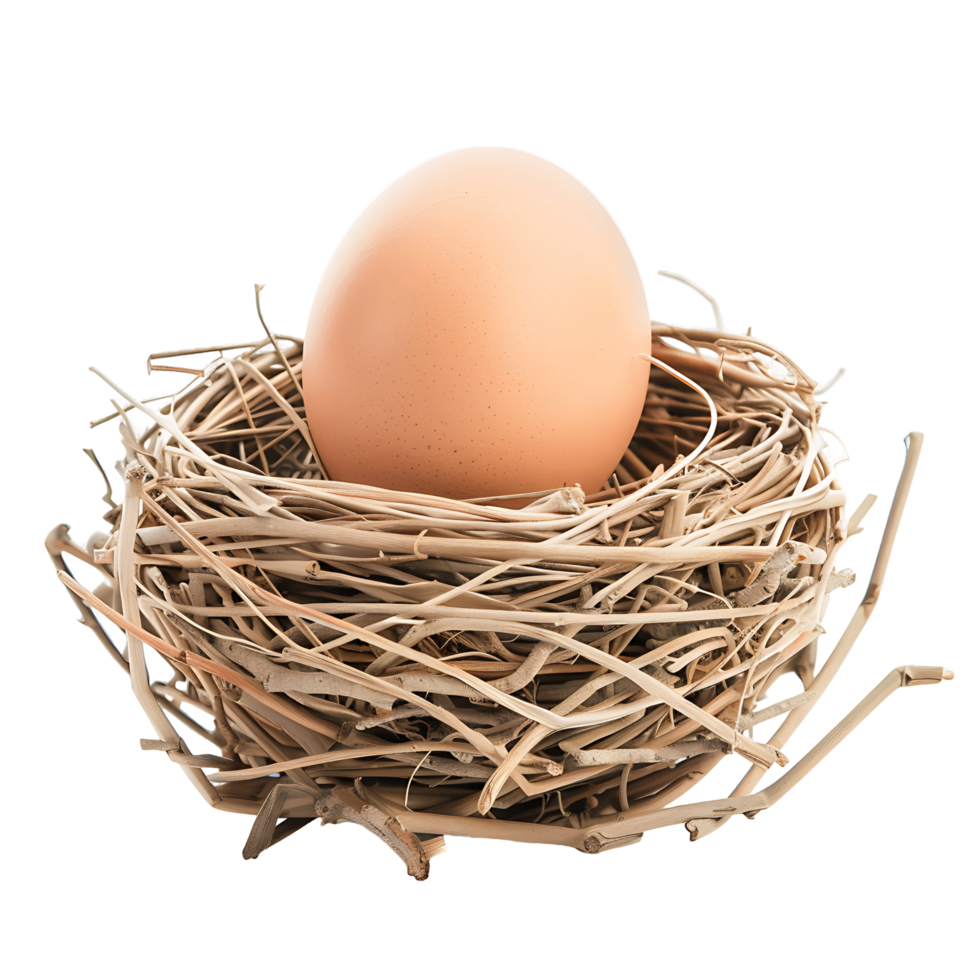
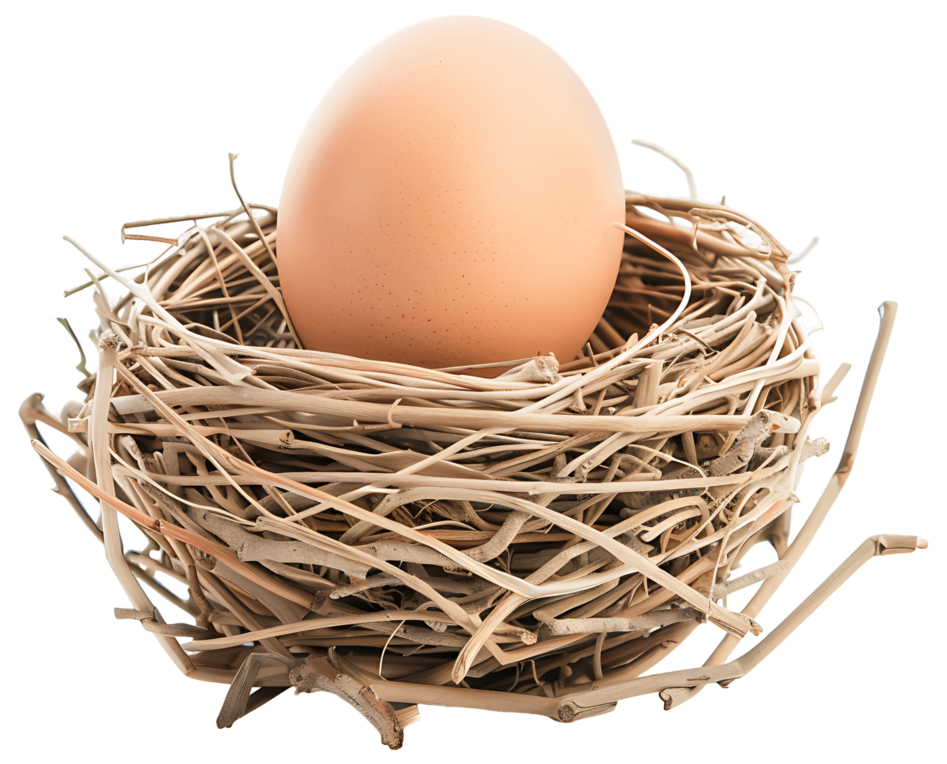
changed footer, added random birds easter egg

diff --git a/style.css b/style.css
@@ -132,7 +132,7 @@ body {
 	padding-top: calc(var(--content-padding-top) + var(--topbar-height));
 	padding-left: var(--content-padding);
 	padding-right: var(--content-padding);
-	padding-bottom: 150px;
+	/*padding-bottom: 150px;*/
 	background-color: rgba(245, 245, 245, 0.85);
 }
 .column-wrapper {
@@ -162,17 +162,31 @@ img.slideshow.fade-out {
 	max-width: 100%;
 }
 footer {
-	position: absolute;
+	background-color: rgba(249, 249, 249, 0.3);
+	position: relative;
+	display: flex;
+	flex-wrap: wrap;
+	align-items: center;
+	justify-content: center;
 	z-index: 1;
-	bottom: 0;
 	text-align: center;
 	left: 0;
 	width: 100vw;
-	margin: 30px 0 15px 0;
-	padding: 0 var(--content-padding) 0 var(--content-padding);
+	margin: 15px 0 0 0;
+	padding: 15px var(--content-padding) 15px var(--content-padding);
+	column-gap: 25px;
+	row-gap: 10px;
+
+}
+footer #left {
+	/*text-align: left;*/
+}
+footer #right {
+
 }
 footer .credit {
 	font-size: 15px !important;
+	color: #333333;
 }
 
 /* Buttons */
@@ -271,8 +285,26 @@ a img {
 .uncolored-link {
 	color: inherit !important;
 }
+@keyframes wiggle {
+   0% { transform: rotate(0deg); }
+   25% { transform: rotate(5deg); }
+   50% { transform: rotate(-5deg); }
+  100% { transform: rotate(0deg); }
+}
+.icon {
+	display: inline-block;
+	vertical-align: center;
+	padding: 0 10px 0 10px;
+	height: 45px;
+}
+.icon.wiggle:hover {
+	animation: wiggle 0.6s;
+}
 .box-shadow {
 	box-shadow: 0px 5px 7px 0px rgba(0,0,0,0.3);
+}
+.box-shadow-reverse {
+	box-shadow: inset 0px 5px 7px 0px rgba(0, 0, 0, 0.1);
 }
 span.half-line-break {
 	width: 100%;

diff --git a/index.html b/index.html
@@ -99,13 +99,20 @@
 			<img src="/images/cessna-painting.heic" class="article-image" id="painting">
 		</a>
 		<footer>
-			<b><a href="https://airamericafc.com/">Air America Flight Center</a></b> &#8226; 
-			1585 Aviation Center Parkway, Suite 602, Daytona Beach, Florida 32114<br>
-			<a href="https://www.linkedin.com/in/damon-welber-bbb23a2b5/" class="uncolored-link">Linkedin</a> &#8226;
-			<a href="https://www.instagram.com/flywithdamon/" class="uncolored-link">Instagram</a> &#8226; 
-			<a href="/contact/" class="uncolored-link">Contact</a>
-			<br>
-			<span class="credit">Designed by Khan</span>
+			<div id="left">
+				<span class="half-line-break"></span>
+				<a href="https://www.linkedin.com/in/damon-welber-bbb23a2b5/"><img src="/images/linkedin.png" class="icon"></a>
+				<a href="https://www.instagram.com/flywithdamon/"><img src="/images/instagram.png" class="icon"></a>
+				<a href="https://clayrobot.net/randombirds/"><img src="/images/randombirds3.png" class="icon wiggle"></a>
+				<span class="half-line-break"></span>
+				<a href="/about/" class="uncolored-link">About</a> &#8226; <a href="/contact/" class="uncolored-link">Contact</a><br>
+			</div>
+			<div id="right">
+				<b><a href="https://airamericafc.com/">Air America Flight Center</a></b> &#8226; 1585 Aviation Center Parkway,
+				Suite 602<br>Daytona Beach, Florida<br>
+				<span class="half-line-break"></span>
+				<span class="credit">Designed by Khan</span>
+			</div>
 		</footer>
 	</div>
 	<script src="/script.js"></script>

diff --git a/randomplanes/index.html b/randomplanes/index.html
@@ -138,13 +138,19 @@ Decades are available, e.g. '2010s'">
 			<p id="description"></p>
 		</div>
 	<footer>
-		<b><a href="https://airamericafc.com/">Air America Flight Center</a></b> &#8226; 
-		1585 Aviation Center Parkway, Suite 602, Daytona Beach, Florida 32114<br>
-		<a href="https://www.linkedin.com/in/damon-welber-bbb23a2b5/" class="uncolored-link">Linkedin</a> &#8226;
-		<a href="https://www.instagram.com/flywithdamon/" class="uncolored-link">Instagram</a> &#8226; 
-		<a href="/contact/" class="uncolored-link">Contact</a>
-		<br>
-		<span class="credit">Designed by Khan</span>
+		<div id="left">
+			<span class="half-line-break"></span>
+			<a href="https://www.linkedin.com/in/damon-welber-bbb23a2b5/"><img src="/images/linkedin.png" class="icon"></a>
+			<a href="https://www.instagram.com/flywithdamon/"><img src="/images/instagram.png" class="icon"></a>
+			<span class="half-line-break"></span>
+			<a href="/about/" class="uncolored-link">About</a> &#8226; <a href="/contact/" class="uncolored-link">Contact</a><br>
+		</div>
+		<div id="right">
+			<b><a href="https://airamericafc.com/">Air America Flight Center</a></b> &#8226; 1585 Aviation Center Parkway,
+			Suite 602<br>Daytona Beach, Florida<br>
+			<span class="half-line-break"></span>
+			<span class="credit">Designed by Khan</span>
+		</div>
 	</footer>
 	</div>
 	<div style="display: none"><img src="./no_image.png"></div>

diff --git a/art/index.html b/art/index.html
@@ -83,13 +83,19 @@
 			</div>
 		</div>
 		<footer>
-			<b><a href="https://airamericafc.com/">Air America Flight Center</a></b> &#8226; 
-			1585 Aviation Center Parkway, Suite 602, Daytona Beach, Florida 32114<br>
-			<a href="https://www.linkedin.com/in/damon-welber-bbb23a2b5/" class="uncolored-link">Linkedin</a> &#8226;
-			<a href="https://www.instagram.com/flywithdamon/" class="uncolored-link">Instagram</a> &#8226; 
-			<a href="/contact/" class="uncolored-link">Contact</a>
-			<br>
-			<span class="credit">Designed by Khan</span>
+			<div id="left">
+				<span class="half-line-break"></span>
+				<a href="https://www.linkedin.com/in/damon-welber-bbb23a2b5/"><img src="/images/linkedin.png" class="icon"></a>
+				<a href="https://www.instagram.com/flywithdamon/"><img src="/images/instagram.png" class="icon"></a>
+				<span class="half-line-break"></span>
+				<a href="/about/" class="uncolored-link">About</a> &#8226; <a href="/contact/" class="uncolored-link">Contact</a><br>
+			</div>
+			<div id="right">
+				<b><a href="https://airamericafc.com/">Air America Flight Center</a></b> &#8226; 1585 Aviation Center Parkway,
+				Suite 602<br>Daytona Beach, Florida<br>
+				<span class="half-line-break"></span>
+				<span class="credit">Designed by Khan</span>
+			</div>
 		</footer>
 	</div>
 	<script src="/script.js"></script>

diff --git a/about/index.html b/about/index.html
@@ -114,13 +114,19 @@
 		</div>
 		
 		<footer>
-			<b><a href="https://airamericafc.com/">Air America Flight Center</a></b> &#8226; 
-			1585 Aviation Center Parkway, Suite 602, Daytona Beach, Florida 32114<br>
-			<a href="https://www.linkedin.com/in/damon-welber-bbb23a2b5/" class="uncolored-link">Linkedin</a> &#8226;
-			<a href="https://www.instagram.com/flywithdamon/" class="uncolored-link">Instagram</a> &#8226; 
-			<a href="/contact/" class="uncolored-link">Contact</a>
-			<br>
-			<span class="credit">Designed by Khan</span>
+			<div id="left">
+				<span class="half-line-break"></span>
+				<a href="https://www.linkedin.com/in/damon-welber-bbb23a2b5/"><img src="/images/linkedin.png" class="icon"></a>
+				<a href="https://www.instagram.com/flywithdamon/"><img src="/images/instagram.png" class="icon"></a>
+				<span class="half-line-break"></span>
+				<a href="/about/" class="uncolored-link">About</a> &#8226; <a href="/contact/" class="uncolored-link">Contact</a><br>
+			</div>
+			<div id="right">
+				<b><a href="https://airamericafc.com/">Air America Flight Center</a></b> &#8226; 1585 Aviation Center Parkway,
+				Suite 602<br>Daytona Beach, Florida<br>
+				<span class="half-line-break"></span>
+				<span class="credit">Designed by Khan</span>
+			</div>
 		</footer>
 	</div>
 	<script src="/script.js"></script>

diff --git a/booking/index.html b/booking/index.html
@@ -137,13 +137,19 @@
 		</div>
 		
 		<footer>
-			<b><a href="https://airamericafc.com/">Air America Flight Center</a></b> &#8226; 
-			1585 Aviation Center Parkway, Suite 602, Daytona Beach, Florida 32114<br>
-			<a href="https://www.linkedin.com/in/damon-welber-bbb23a2b5/" class="uncolored-link">Linkedin</a> &#8226;
-			<a href="https://www.instagram.com/flywithdamon/" class="uncolored-link">Instagram</a> &#8226; 
-			<a href="/contact/" class="uncolored-link">Contact</a>
-			<br>
-			<span class="credit">Designed by Khan</span>
+			<div id="left">
+				<span class="half-line-break"></span>
+				<a href="https://www.linkedin.com/in/damon-welber-bbb23a2b5/"><img src="/images/linkedin.png" class="icon"></a>
+				<a href="https://www.instagram.com/flywithdamon/"><img src="/images/instagram.png" class="icon"></a>
+				<span class="half-line-break"></span>
+				<a href="/about/" class="uncolored-link">About</a> &#8226; <a href="/contact/" class="uncolored-link">Contact</a><br>
+			</div>
+			<div id="right">
+				<b><a href="https://airamericafc.com/">Air America Flight Center</a></b> &#8226; 1585 Aviation Center Parkway,
+				Suite 602<br>Daytona Beach, Florida<br>
+				<span class="half-line-break"></span>
+				<span class="credit">Designed by Khan</span>
+			</div>
 		</footer>
 	</div>
 	<script src="/script.js"></script>

diff --git a/contact/index.html b/contact/index.html
@@ -75,13 +75,19 @@
 		</div>
 		
 		<footer>
-			<b><a href="https://airamericafc.com/">Air America Flight Center</a></b> &#8226; 
-			1585 Aviation Center Parkway, Suite 602, Daytona Beach, Florida 32114<br>
-			<a href="https://www.linkedin.com/in/damon-welber-bbb23a2b5/" class="uncolored-link">Linkedin</a> &#8226;
-			<a href="https://www.instagram.com/flywithdamon/" class="uncolored-link">Instagram</a> &#8226; 
-			<a href="/contact/" class="uncolored-link">Contact</a>
-			<br>
-			<span class="credit">Designed by Khan</span>
+			<div id="left">
+				<span class="half-line-break"></span>
+				<a href="https://www.linkedin.com/in/damon-welber-bbb23a2b5/"><img src="/images/linkedin.png" class="icon"></a>
+				<a href="https://www.instagram.com/flywithdamon/"><img src="/images/instagram.png" class="icon"></a>
+				<span class="half-line-break"></span>
+				<a href="/about/" class="uncolored-link">About</a> &#8226; <a href="/contact/" class="uncolored-link">Contact</a><br>
+			</div>
+			<div id="right">
+				<b><a href="https://airamericafc.com/">Air America Flight Center</a></b> &#8226; 1585 Aviation Center Parkway,
+				Suite 602<br>Daytona Beach, Florida<br>
+				<span class="half-line-break"></span>
+				<span class="credit">Designed by Khan</span>
+			</div>
 		</footer>
 	</div>
 	<script src="/script.js"></script>
